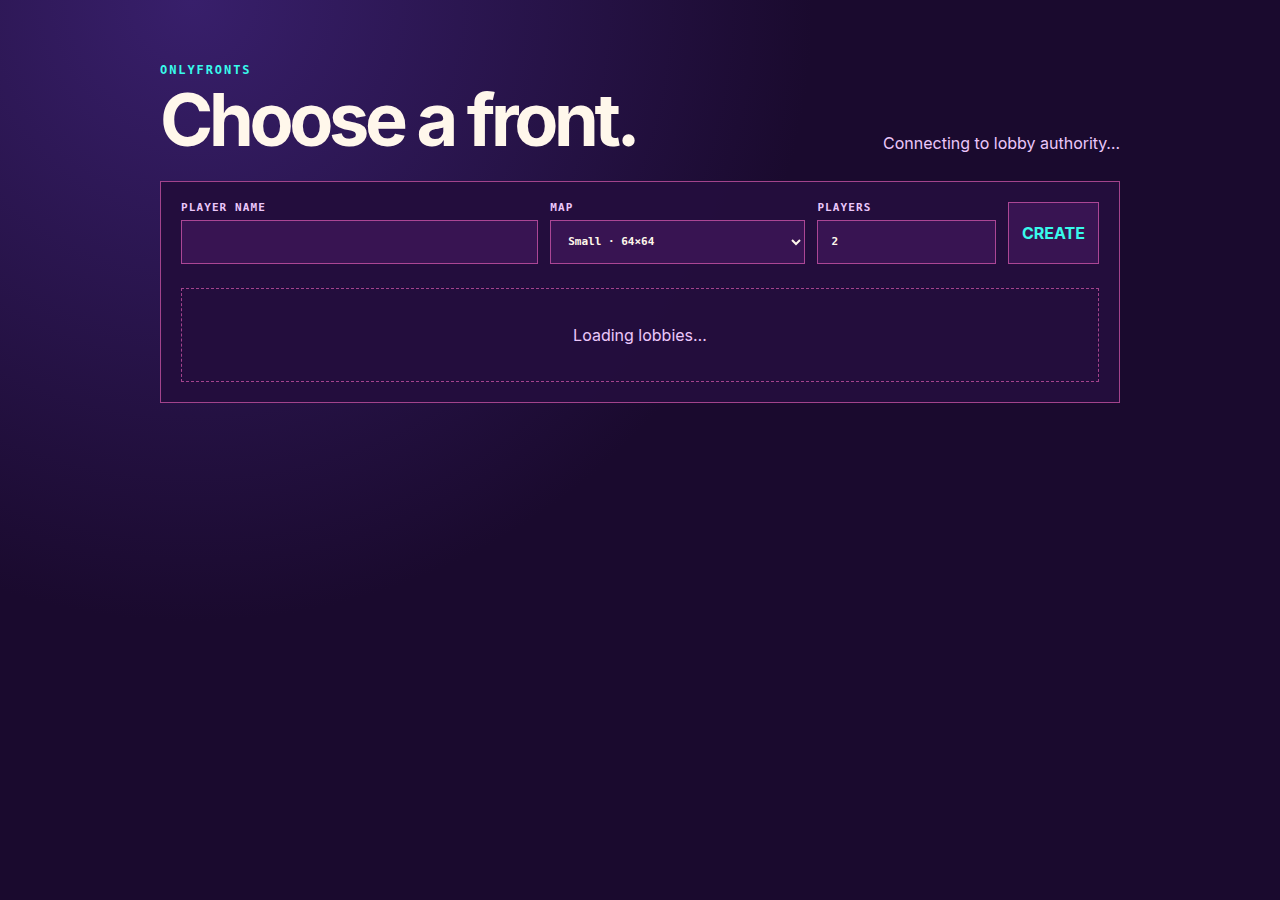
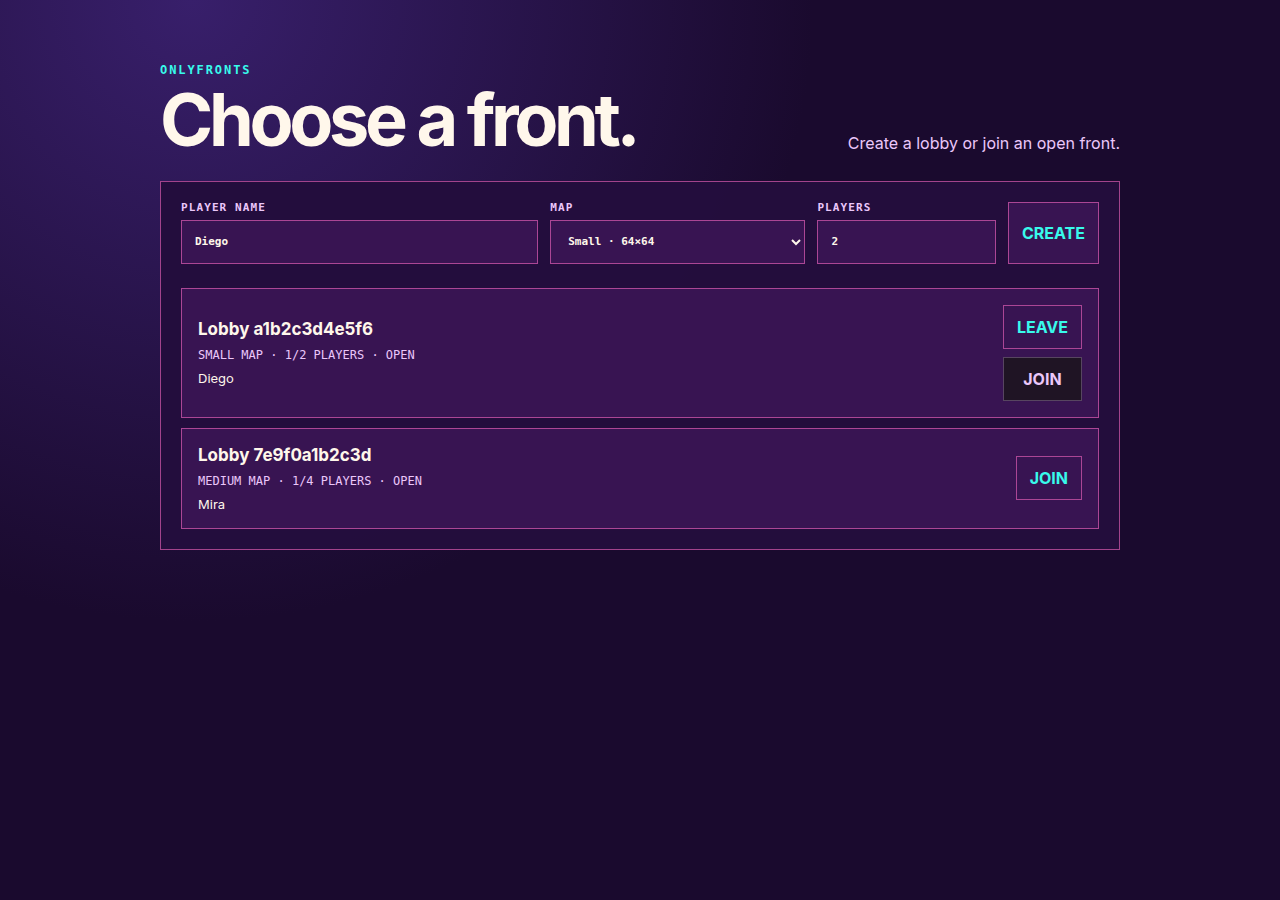
Mute disabled lobby buttons and recapture a full lobby row.
Disabled JOIN was still mint because opacity left the cyan label on.
Muted purple/cream now; CREATE, LEAVE, and JOIN stay cyan when they
are live. The GitHub shot shows a row so the disabled styling can be
reviewed.

diff --git a/deployment/vercel/index.html b/deployment/vercel/index.html
@@ -26,7 +26,7 @@
       input, select, button { min-height: 44px; border: 1px solid rgba(255, 107, 199, .58); background: #381452; color: #fff7eb; padding: 0 13px; font: inherit; }
       button { cursor: pointer; border-color: rgba(255, 107, 199, .58); color: #38faeb; font-weight: 750; }
       button:hover:not(:disabled) { background: #381f6b; }
-      button:disabled { cursor: not-allowed; opacity: .4; background: #1f1424; }
+      button:disabled { cursor: not-allowed; background: #1f1424; color: #ebc7fa; border-color: rgba(235, 199, 250, .28); }
       .list { display: grid; gap: 10px; }
       .empty { padding: 36px; color: #ebc7fa; text-align: center; border: 1px dashed rgba(255, 107, 199, .58); }
       .lobby { display: grid; grid-template-columns: 1fr auto; align-items: center; gap: 18px; border: 1px solid rgba(255, 107, 199, .58); padding: 16px; background: #381452; }
